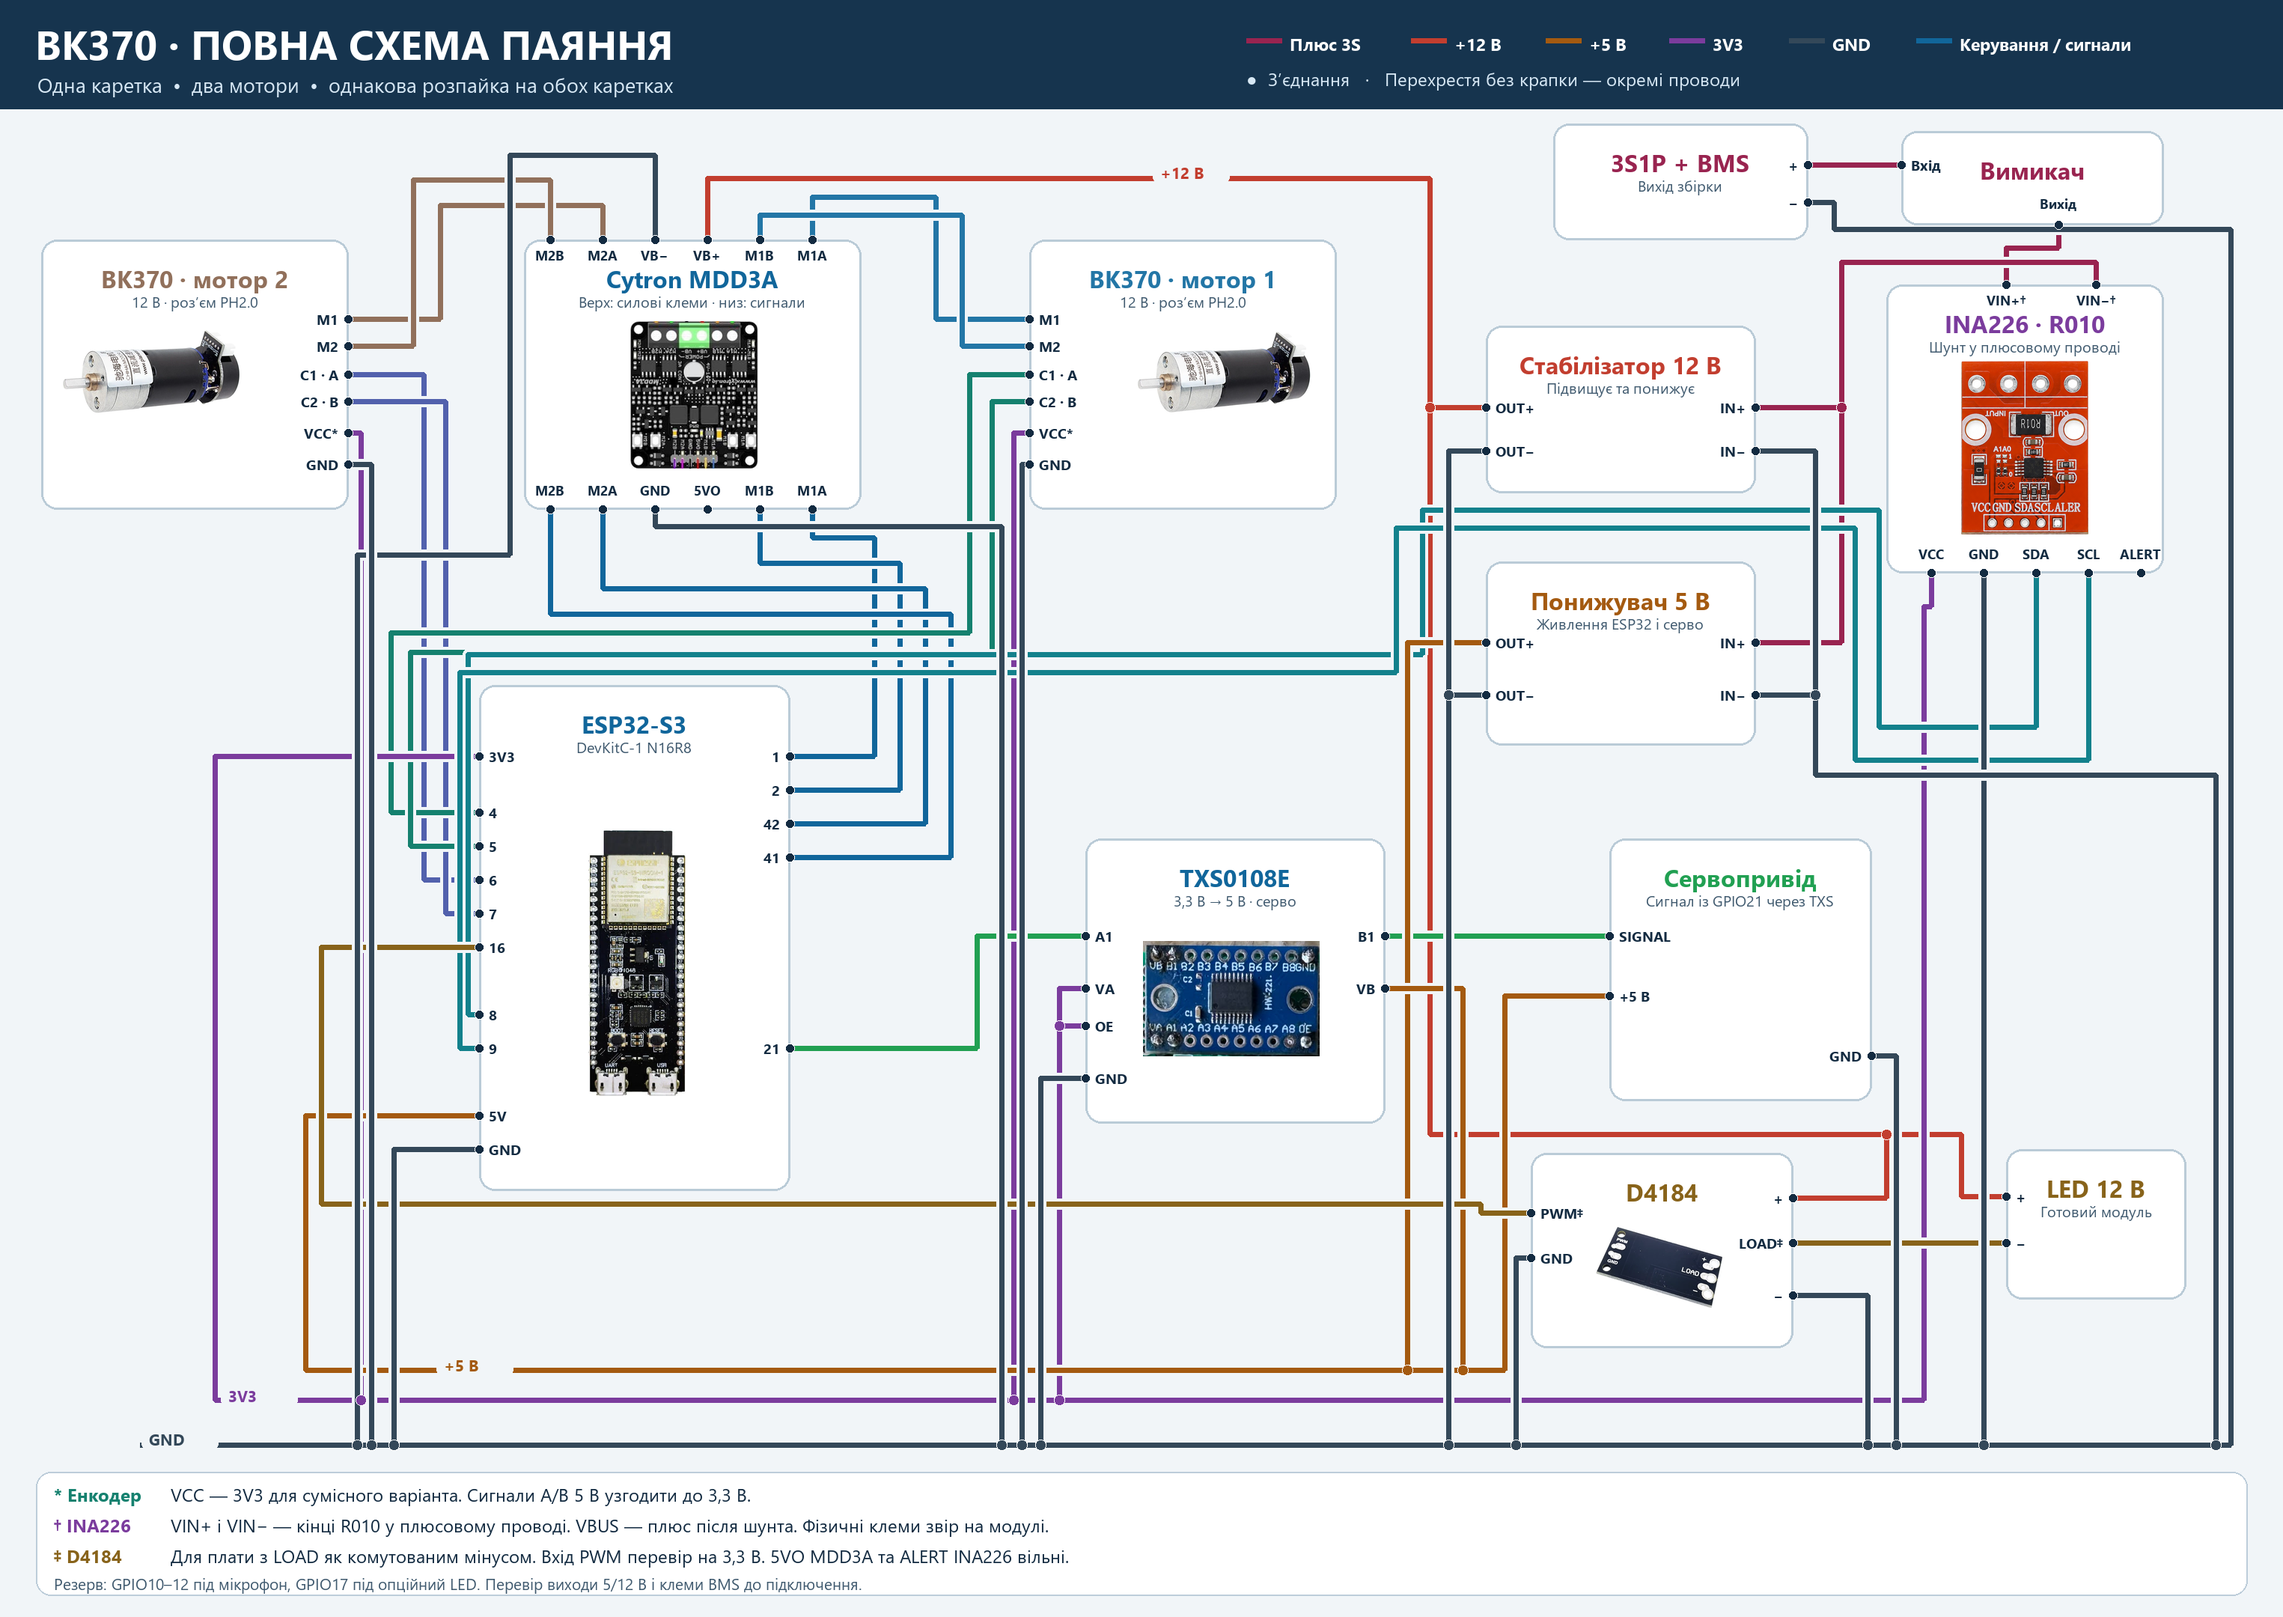
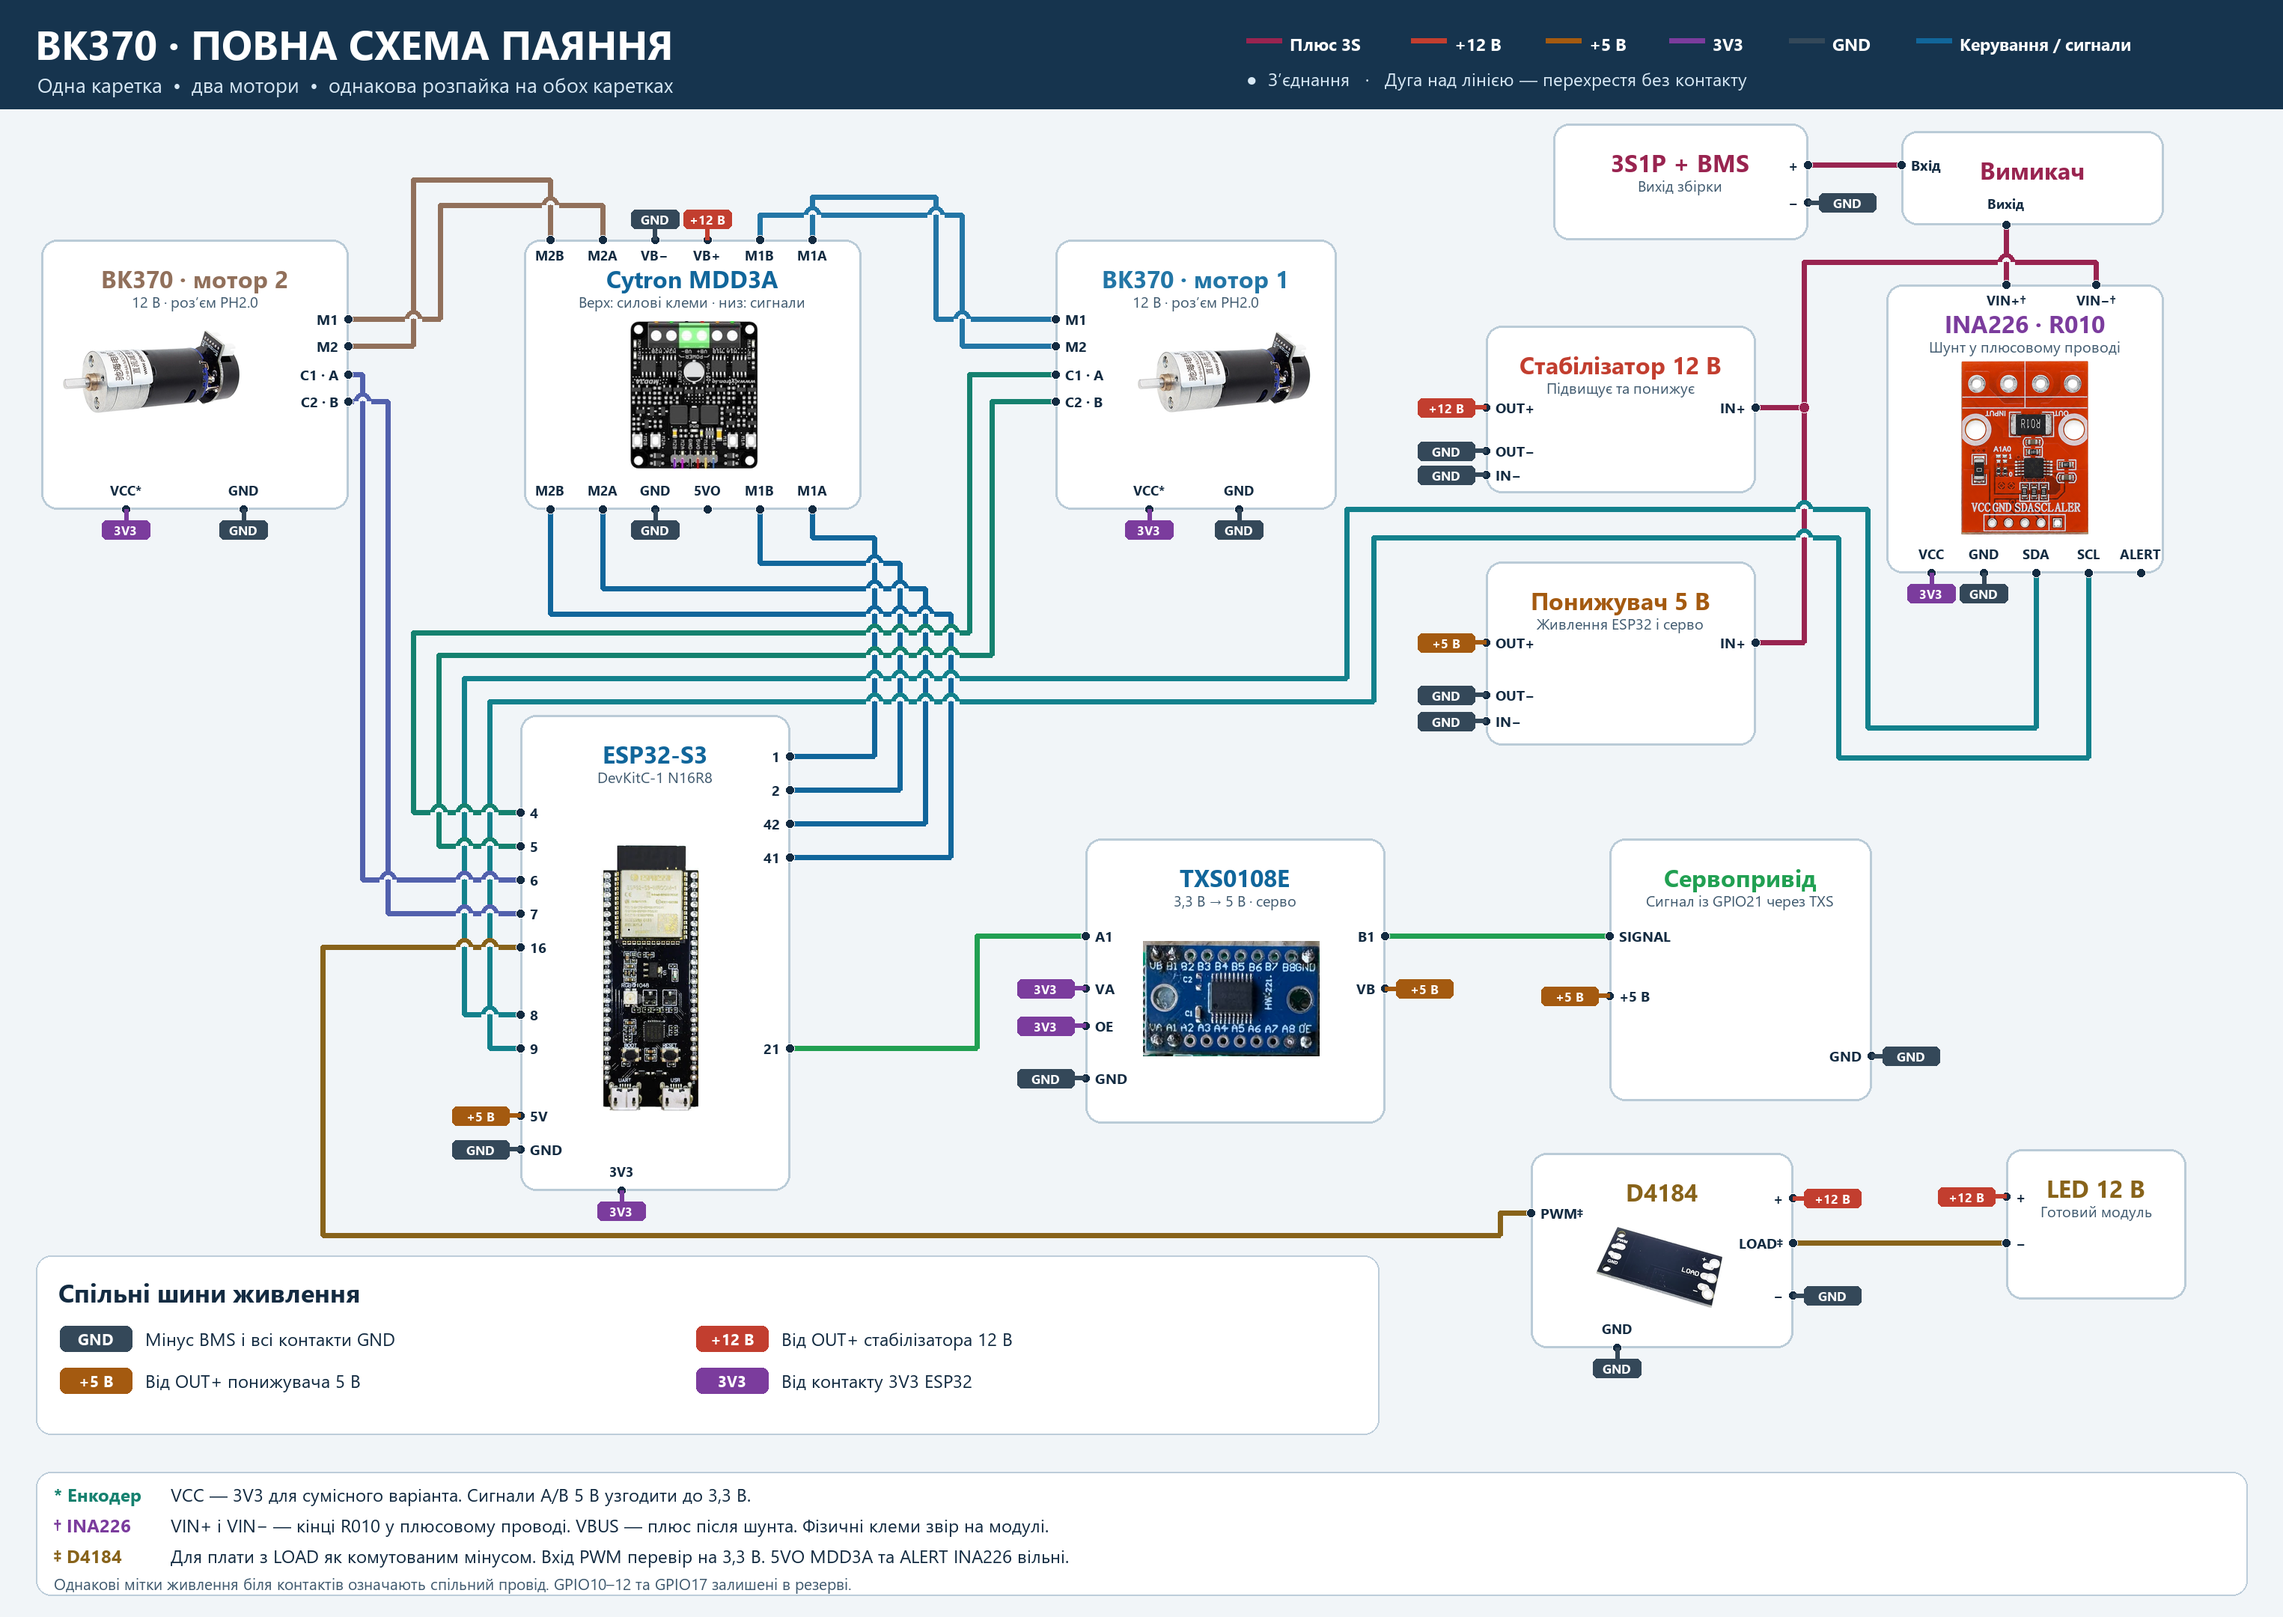
Make BK370 wiring crossings and supply nets distinct

diff --git a/BK370/WIRING.md b/BK370/WIRING.md
@@ -2,6 +2,8 @@
 
 [Відкрити повну схему паяння (PNG)](photos/00-bk370-full-wiring.png)
 
+Контакти з однаковою міткою **GND**, **3V3**, **+5 В** або **+12 В** з’єднуються зі своєю спільною шиною. Дуга над проводом позначає перехрестя без електричного контакту, крапка на розгалуженні — електричне з’єднання.
+
 ![Повна схема паяння BK370](photos/00-bk370-full-wiring.png)
 
 [1. MDD3A і роз’єм BK370](photos/01-mdd3a-bk370.png) · [2. Контакти ESP32](photos/02-esp32-pins.png) · [3. Живлення, INA226, TXS0108E і D4184](photos/03-power-and-accessories.png)
